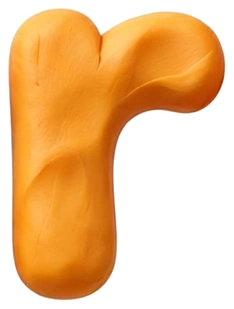
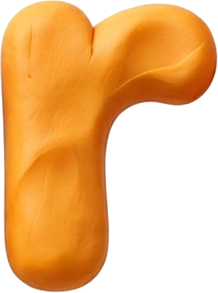
Title letters: masked tight crops, no neighbour fragments, correct bottom-row alignment

diff --git a/index.html b/index.html
@@ -104,12 +104,12 @@ body.letters-flying #menuScreen .title-letters{position:relative;z-index:5}
 body.letters-flying #menuScreen{background:linear-gradient(180deg,#fff8ef,#ffe9c9)}
 #menuScreen .heartfloat,#menuScreen .playgraphic,#menuScreen #guessBtn{transition:filter .8s ease,opacity .8s ease}
 </style></head><body>
-<div class="screen active" id="splashScreen" style="background:linear-gradient(180deg,#fff8ef,#ffe9c9)"><div style="flex:1;display:flex;flex-direction:column;align-items:center;justify-content:center;gap:20px;text-align:center"><div class="title-letters" style="width:100%;max-width:480px;position:relative;z-index:1"><div class="title-row" style="position:relative;width:100%;aspect-ratio:2429/526"><img class="title-letter top" src="img/title-letters/letter-01.png" style="left:-0.33%;top:-1.52%;width:13.34%;height:84.03%;animation-delay:0.00s;animation-duration:1.80s;--fly-delay:0.00s"><img class="title-letter top" src="img/title-letters/letter-08.png" style="left:11.40%;top:22.05%;width:12.10%;height:57.98%;animation-delay:0.12s;animation-duration:2.05s;--fly-delay:0.12s"><img class="title-letter top" src="img/title-letters/letter-05.png" style="left:23.26%;top:20.34%;width:11.94%;height:79.66%;animation-delay:0.24s;animation-duration:2.30s;--fly-delay:0.24s"><img class="title-letter top" src="img/title-letters/letter-09.png" style="left:35.03%;top:22.05%;width:11.24%;height:57.60%;animation-delay:0.36s;animation-duration:2.55s;--fly-delay:0.36s"><img class="title-letter top" src="img/title-letters/letter-02.png" style="left:46.48%;top:-1.52%;width:5.93%;height:81.75%;animation-delay:0.48s;animation-duration:2.80s;--fly-delay:0.48s"><img class="title-letter top" src="img/title-letters/letter-07.png" style="left:51.67%;top:21.48%;width:12.60%;height:57.98%;animation-delay:0.60s;animation-duration:1.80s;--fly-delay:0.60s"><img class="title-letter top" src="img/title-letters/letter-06.png" style="left:64.10%;top:20.91%;width:9.63%;height:58.75%;animation-delay:0.72s;animation-duration:2.05s;--fly-delay:0.72s"><img class="title-letter top" src="img/title-letters/letter-03.png" style="left:73.49%;top:-0.38%;width:5.43%;height:24.14%;animation-delay:0.84s;animation-duration:2.30s;--fly-delay:0.84s"><img class="title-letter top" src="img/title-letters/letter-11.png" style="left:73.65%;top:23.00%;width:5.15%;height:56.46%;animation-delay:0.96s;animation-duration:2.55s;--fly-delay:0.96s"><img class="title-letter top" src="img/title-letters/letter-04.png" style="left:78.72%;top:4.56%;width:10.25%;height:75.67%;animation-delay:1.08s;animation-duration:2.80s;--fly-delay:1.08s"><img class="title-letter top" src="img/title-letters/letter-10.png" style="left:88.02%;top:22.62%;width:12.31%;height:78.90%;animation-delay:1.20s;animation-duration:1.80s;--fly-delay:1.20s"></div><div class="title-row" style="position:relative;width:86%;margin-left:7%;aspect-ratio:2135/393"><img class="title-letter bot" src="img/title-letters/letter-12.png" style="left:-0.37%;top:-2.04%;width:16.07%;height:104.07%;animation-delay:0.00s;animation-duration:1.80s;--fly-delay:0.00s"><img class="title-letter bot" src="img/title-letters/letter-17.png" style="left:15.04%;top:22.65%;width:13.82%;height:77.86%;animation-delay:0.12s;animation-duration:2.05s;--fly-delay:0.12s"><img class="title-letter bot" src="img/title-letters/letter-18.png" style="left:28.67%;top:22.65%;width:13.21%;height:77.86%;animation-delay:0.24s;animation-duration:2.30s;--fly-delay:0.24s"><img class="title-letter bot" src="img/title-letters/letter-14.png" style="left:41.12%;top:1.02%;width:11.29%;height:99.75%;animation-delay:0.36s;animation-duration:2.55s;--fly-delay:0.36s"><img class="title-letter bot" src="img/title-letters/letter-16.png" style="left:51.48%;top:20.87%;width:13.26%;height:79.90%;animation-delay:0.48s;animation-duration:2.80s;--fly-delay:0.48s"><img class="title-letter bot" src="img/title-letters/letter-15.png" style="left:64.50%;top:20.61%;width:11.29%;height:80.66%;animation-delay:0.60s;animation-duration:1.80s;--fly-delay:0.60s"><img class="title-letter bot" src="img/title-letters/letter-13.png" style="left:74.94%;top:0.25%;width:11.62%;height:100.51%;animation-delay:0.72s;animation-duration:2.05s;--fly-delay:0.72s"><img class="title-letter bot" src="img/title-letters/letter-19.png" style="left:87.87%;top:33.08%;width:12.51%;height:63.10%;animation-delay:0.84s;animation-duration:2.30s;--fly-delay:0.84s"></div></div><img src="img/clay-heart.png" style="width:72px;height:72px;animation:bob 1.2s ease-in-out infinite"><div id="splashText" style="font-size:28px;font-weight:900">Pick your favorite!</div></div></div>
+<div class="screen active" id="splashScreen" style="background:linear-gradient(180deg,#fff8ef,#ffe9c9)"><div style="flex:1;display:flex;flex-direction:column;align-items:center;justify-content:center;gap:20px;text-align:center"><div class="title-letters" style="width:100%;max-width:480px;position:relative;z-index:1"><div class="title-row" style="position:relative;width:100%;aspect-ratio:2429/526"><img class="title-letter" src="img/title-letters/letter-01.png" style="left:0.00%;top:0.00%;width:12.68%;height:80.99%;animation-delay:0.00s;animation-duration:1.80s;--fly-delay:0.00s"><img class="title-letter" src="img/title-letters/letter-08.png" style="left:11.73%;top:23.57%;width:11.45%;height:54.94%;animation-delay:0.12s;animation-duration:2.05s;--fly-delay:0.12s"><img class="title-letter" src="img/title-letters/letter-05.png" style="left:23.59%;top:21.86%;width:11.28%;height:76.62%;animation-delay:0.24s;animation-duration:2.30s;--fly-delay:0.24s"><img class="title-letter" src="img/title-letters/letter-09.png" style="left:35.36%;top:23.57%;width:10.58%;height:54.56%;animation-delay:0.36s;animation-duration:2.55s;--fly-delay:0.36s"><img class="title-letter" src="img/title-letters/letter-02.png" style="left:46.81%;top:0.00%;width:5.27%;height:78.71%;animation-delay:0.48s;animation-duration:2.80s;--fly-delay:0.48s"><img class="title-letter" src="img/title-letters/letter-07.png" style="left:52.00%;top:23.00%;width:11.94%;height:54.94%;animation-delay:0.60s;animation-duration:1.80s;--fly-delay:0.60s"><img class="title-letter" src="img/title-letters/letter-06.png" style="left:64.43%;top:22.43%;width:8.97%;height:55.70%;animation-delay:0.72s;animation-duration:2.05s;--fly-delay:0.72s"><img class="title-letter" src="img/title-letters/letter-03.png" style="left:73.82%;top:1.14%;width:4.78%;height:21.10%;animation-delay:0.84s;animation-duration:2.30s;--fly-delay:0.84s"><img class="title-letter" src="img/title-letters/letter-11.png" style="left:73.98%;top:24.52%;width:4.49%;height:53.42%;animation-delay:0.96s;animation-duration:2.55s;--fly-delay:0.96s"><img class="title-letter" src="img/title-letters/letter-04.png" style="left:79.04%;top:6.08%;width:9.59%;height:72.62%;animation-delay:1.08s;animation-duration:2.80s;--fly-delay:1.08s"><img class="title-letter" src="img/title-letters/letter-10.png" style="left:88.35%;top:24.14%;width:11.65%;height:75.86%;animation-delay:1.20s;animation-duration:1.80s;--fly-delay:1.20s"></div><div class="title-row" style="position:relative;width:87.9%;margin-left:8.27%;aspect-ratio:2135/393"><img class="title-letter" src="img/title-letters/letter-12.png" style="left:0.00%;top:0.00%;width:15.32%;height:100.00%;animation-delay:0.00s;animation-duration:1.80s;--fly-delay:0.00s"><img class="title-letter" src="img/title-letters/letter-17.png" style="left:15.41%;top:24.68%;width:13.07%;height:73.79%;animation-delay:0.12s;animation-duration:2.05s;--fly-delay:0.12s"><img class="title-letter" src="img/title-letters/letter-18.png" style="left:29.04%;top:24.68%;width:12.46%;height:73.79%;animation-delay:0.24s;animation-duration:2.30s;--fly-delay:0.24s"><img class="title-letter" src="img/title-letters/letter-14.png" style="left:41.50%;top:3.05%;width:10.54%;height:95.67%;animation-delay:0.36s;animation-duration:2.55s;--fly-delay:0.36s"><img class="title-letter" src="img/title-letters/letter-16.png" style="left:51.85%;top:22.90%;width:12.51%;height:75.83%;animation-delay:0.48s;animation-duration:2.80s;--fly-delay:0.48s"><img class="title-letter" src="img/title-letters/letter-15.png" style="left:64.87%;top:22.65%;width:10.54%;height:76.59%;animation-delay:0.60s;animation-duration:1.80s;--fly-delay:0.60s"><img class="title-letter" src="img/title-letters/letter-13.png" style="left:75.32%;top:2.29%;width:10.87%;height:96.44%;animation-delay:0.72s;animation-duration:2.05s;--fly-delay:0.72s"><img class="title-letter" src="img/title-letters/letter-19.png" style="left:88.24%;top:35.11%;width:11.76%;height:59.03%;animation-delay:0.84s;animation-duration:2.30s;--fly-delay:0.84s"></div></div><img src="img/clay-heart.png" style="width:72px;height:72px;animation:bob 1.2s ease-in-out infinite"><div id="splashText" style="font-size:28px;font-weight:900">Pick your favorite!</div></div></div>
 <div class="screen" id="menuScreen" style="background:linear-gradient(180deg,#fff8ef,#ffe9c9)">
 <img class="heartfloat" src="img/clay-heart.png" style="left:8%;bottom:5%;animation-delay:0s;width:28px;height:28px"><img class="heartfloat" src="img/clay-heart.png" style="left:22%;bottom:0%;animation-delay:1.5s;width:44px;height:44px"><img class="heartfloat" src="img/clay-heart.png" style="left:38%;bottom:8%;animation-delay:3s;width:20px;height:20px"><img class="heartfloat" src="img/clay-heart.png" style="left:55%;bottom:2%;animation-delay:2s;width:36px;height:36px"><img class="heartfloat" src="img/clay-heart.png" style="left:72%;bottom:10%;animation-delay:4.5s;width:24px;height:24px"><img class="heartfloat" src="img/clay-heart.png" style="left:88%;bottom:4%;animation-delay:1s;width:48px;height:48px"><img class="heartfloat" src="img/clay-heart.png" style="left:15%;bottom:15%;animation-delay:6s;width:20px;height:20px"><img class="heartfloat" src="img/clay-heart.png" style="left:60%;bottom:12%;animation-delay:7s;width:28px;height:28px"><img class="heartfloat" src="img/clay-heart.png" style="left:80%;bottom:18%;animation-delay:3.5s;width:20px;height:20px">
 
 <div style="flex:1;display:flex;flex-direction:column;align-items:center;justify-content:center;gap:20px">
-<div class="title-letters" style="width:100%;max-width:480px;position:relative;z-index:1"><div class="title-row" style="position:relative;width:100%;aspect-ratio:2429/526"><img class="title-letter top" src="img/title-letters/letter-01.png" style="left:-0.33%;top:-1.52%;width:13.34%;height:84.03%;animation-delay:0.00s;animation-duration:1.80s;--fly-delay:0.00s"><img class="title-letter top" src="img/title-letters/letter-08.png" style="left:11.40%;top:22.05%;width:12.10%;height:57.98%;animation-delay:0.12s;animation-duration:2.05s;--fly-delay:0.12s"><img class="title-letter top" src="img/title-letters/letter-05.png" style="left:23.26%;top:20.34%;width:11.94%;height:79.66%;animation-delay:0.24s;animation-duration:2.30s;--fly-delay:0.24s"><img class="title-letter top" src="img/title-letters/letter-09.png" style="left:35.03%;top:22.05%;width:11.24%;height:57.60%;animation-delay:0.36s;animation-duration:2.55s;--fly-delay:0.36s"><img class="title-letter top" src="img/title-letters/letter-02.png" style="left:46.48%;top:-1.52%;width:5.93%;height:81.75%;animation-delay:0.48s;animation-duration:2.80s;--fly-delay:0.48s"><img class="title-letter top" src="img/title-letters/letter-07.png" style="left:51.67%;top:21.48%;width:12.60%;height:57.98%;animation-delay:0.60s;animation-duration:1.80s;--fly-delay:0.60s"><img class="title-letter top" src="img/title-letters/letter-06.png" style="left:64.10%;top:20.91%;width:9.63%;height:58.75%;animation-delay:0.72s;animation-duration:2.05s;--fly-delay:0.72s"><img class="title-letter top" src="img/title-letters/letter-03.png" style="left:73.49%;top:-0.38%;width:5.43%;height:24.14%;animation-delay:0.84s;animation-duration:2.30s;--fly-delay:0.84s"><img class="title-letter top" src="img/title-letters/letter-11.png" style="left:73.65%;top:23.00%;width:5.15%;height:56.46%;animation-delay:0.96s;animation-duration:2.55s;--fly-delay:0.96s"><img class="title-letter top" src="img/title-letters/letter-04.png" style="left:78.72%;top:4.56%;width:10.25%;height:75.67%;animation-delay:1.08s;animation-duration:2.80s;--fly-delay:1.08s"><img class="title-letter top" src="img/title-letters/letter-10.png" style="left:88.02%;top:22.62%;width:12.31%;height:78.90%;animation-delay:1.20s;animation-duration:1.80s;--fly-delay:1.20s"></div><div class="title-row" style="position:relative;width:86%;margin-left:7%;aspect-ratio:2135/393"><img class="title-letter bot" src="img/title-letters/letter-12.png" style="left:-0.37%;top:-2.04%;width:16.07%;height:104.07%;animation-delay:0.00s;animation-duration:1.80s;--fly-delay:0.00s"><img class="title-letter bot" src="img/title-letters/letter-17.png" style="left:15.04%;top:22.65%;width:13.82%;height:77.86%;animation-delay:0.12s;animation-duration:2.05s;--fly-delay:0.12s"><img class="title-letter bot" src="img/title-letters/letter-18.png" style="left:28.67%;top:22.65%;width:13.21%;height:77.86%;animation-delay:0.24s;animation-duration:2.30s;--fly-delay:0.24s"><img class="title-letter bot" src="img/title-letters/letter-14.png" style="left:41.12%;top:1.02%;width:11.29%;height:99.75%;animation-delay:0.36s;animation-duration:2.55s;--fly-delay:0.36s"><img class="title-letter bot" src="img/title-letters/letter-16.png" style="left:51.48%;top:20.87%;width:13.26%;height:79.90%;animation-delay:0.48s;animation-duration:2.80s;--fly-delay:0.48s"><img class="title-letter bot" src="img/title-letters/letter-15.png" style="left:64.50%;top:20.61%;width:11.29%;height:80.66%;animation-delay:0.60s;animation-duration:1.80s;--fly-delay:0.60s"><img class="title-letter bot" src="img/title-letters/letter-13.png" style="left:74.94%;top:0.25%;width:11.62%;height:100.51%;animation-delay:0.72s;animation-duration:2.05s;--fly-delay:0.72s"><img class="title-letter bot" src="img/title-letters/letter-19.png" style="left:87.87%;top:33.08%;width:12.51%;height:63.10%;animation-delay:0.84s;animation-duration:2.30s;--fly-delay:0.84s"></div></div>
+<div class="title-letters" style="width:100%;max-width:480px;position:relative;z-index:1"><div class="title-row" style="position:relative;width:100%;aspect-ratio:2429/526"><img class="title-letter" src="img/title-letters/letter-01.png" style="left:0.00%;top:0.00%;width:12.68%;height:80.99%;animation-delay:0.00s;animation-duration:1.80s;--fly-delay:0.00s"><img class="title-letter" src="img/title-letters/letter-08.png" style="left:11.73%;top:23.57%;width:11.45%;height:54.94%;animation-delay:0.12s;animation-duration:2.05s;--fly-delay:0.12s"><img class="title-letter" src="img/title-letters/letter-05.png" style="left:23.59%;top:21.86%;width:11.28%;height:76.62%;animation-delay:0.24s;animation-duration:2.30s;--fly-delay:0.24s"><img class="title-letter" src="img/title-letters/letter-09.png" style="left:35.36%;top:23.57%;width:10.58%;height:54.56%;animation-delay:0.36s;animation-duration:2.55s;--fly-delay:0.36s"><img class="title-letter" src="img/title-letters/letter-02.png" style="left:46.81%;top:0.00%;width:5.27%;height:78.71%;animation-delay:0.48s;animation-duration:2.80s;--fly-delay:0.48s"><img class="title-letter" src="img/title-letters/letter-07.png" style="left:52.00%;top:23.00%;width:11.94%;height:54.94%;animation-delay:0.60s;animation-duration:1.80s;--fly-delay:0.60s"><img class="title-letter" src="img/title-letters/letter-06.png" style="left:64.43%;top:22.43%;width:8.97%;height:55.70%;animation-delay:0.72s;animation-duration:2.05s;--fly-delay:0.72s"><img class="title-letter" src="img/title-letters/letter-03.png" style="left:73.82%;top:1.14%;width:4.78%;height:21.10%;animation-delay:0.84s;animation-duration:2.30s;--fly-delay:0.84s"><img class="title-letter" src="img/title-letters/letter-11.png" style="left:73.98%;top:24.52%;width:4.49%;height:53.42%;animation-delay:0.96s;animation-duration:2.55s;--fly-delay:0.96s"><img class="title-letter" src="img/title-letters/letter-04.png" style="left:79.04%;top:6.08%;width:9.59%;height:72.62%;animation-delay:1.08s;animation-duration:2.80s;--fly-delay:1.08s"><img class="title-letter" src="img/title-letters/letter-10.png" style="left:88.35%;top:24.14%;width:11.65%;height:75.86%;animation-delay:1.20s;animation-duration:1.80s;--fly-delay:1.20s"></div><div class="title-row" style="position:relative;width:87.9%;margin-left:8.27%;aspect-ratio:2135/393"><img class="title-letter" src="img/title-letters/letter-12.png" style="left:0.00%;top:0.00%;width:15.32%;height:100.00%;animation-delay:0.00s;animation-duration:1.80s;--fly-delay:0.00s"><img class="title-letter" src="img/title-letters/letter-17.png" style="left:15.41%;top:24.68%;width:13.07%;height:73.79%;animation-delay:0.12s;animation-duration:2.05s;--fly-delay:0.12s"><img class="title-letter" src="img/title-letters/letter-18.png" style="left:29.04%;top:24.68%;width:12.46%;height:73.79%;animation-delay:0.24s;animation-duration:2.30s;--fly-delay:0.24s"><img class="title-letter" src="img/title-letters/letter-14.png" style="left:41.50%;top:3.05%;width:10.54%;height:95.67%;animation-delay:0.36s;animation-duration:2.55s;--fly-delay:0.36s"><img class="title-letter" src="img/title-letters/letter-16.png" style="left:51.85%;top:22.90%;width:12.51%;height:75.83%;animation-delay:0.48s;animation-duration:2.80s;--fly-delay:0.48s"><img class="title-letter" src="img/title-letters/letter-15.png" style="left:64.87%;top:22.65%;width:10.54%;height:76.59%;animation-delay:0.60s;animation-duration:1.80s;--fly-delay:0.60s"><img class="title-letter" src="img/title-letters/letter-13.png" style="left:75.32%;top:2.29%;width:10.87%;height:96.44%;animation-delay:0.72s;animation-duration:2.05s;--fly-delay:0.72s"><img class="title-letter" src="img/title-letters/letter-19.png" style="left:88.24%;top:35.11%;width:11.76%;height:59.03%;animation-delay:0.84s;animation-duration:2.30s;--fly-delay:0.84s"></div></div>
 <button class="playgraphic" id="playBtn"><img src="img/brand-play-button.png" alt=""></button>
 <button class="small" id="guessBtn">Guess</button>
 </div></div>
